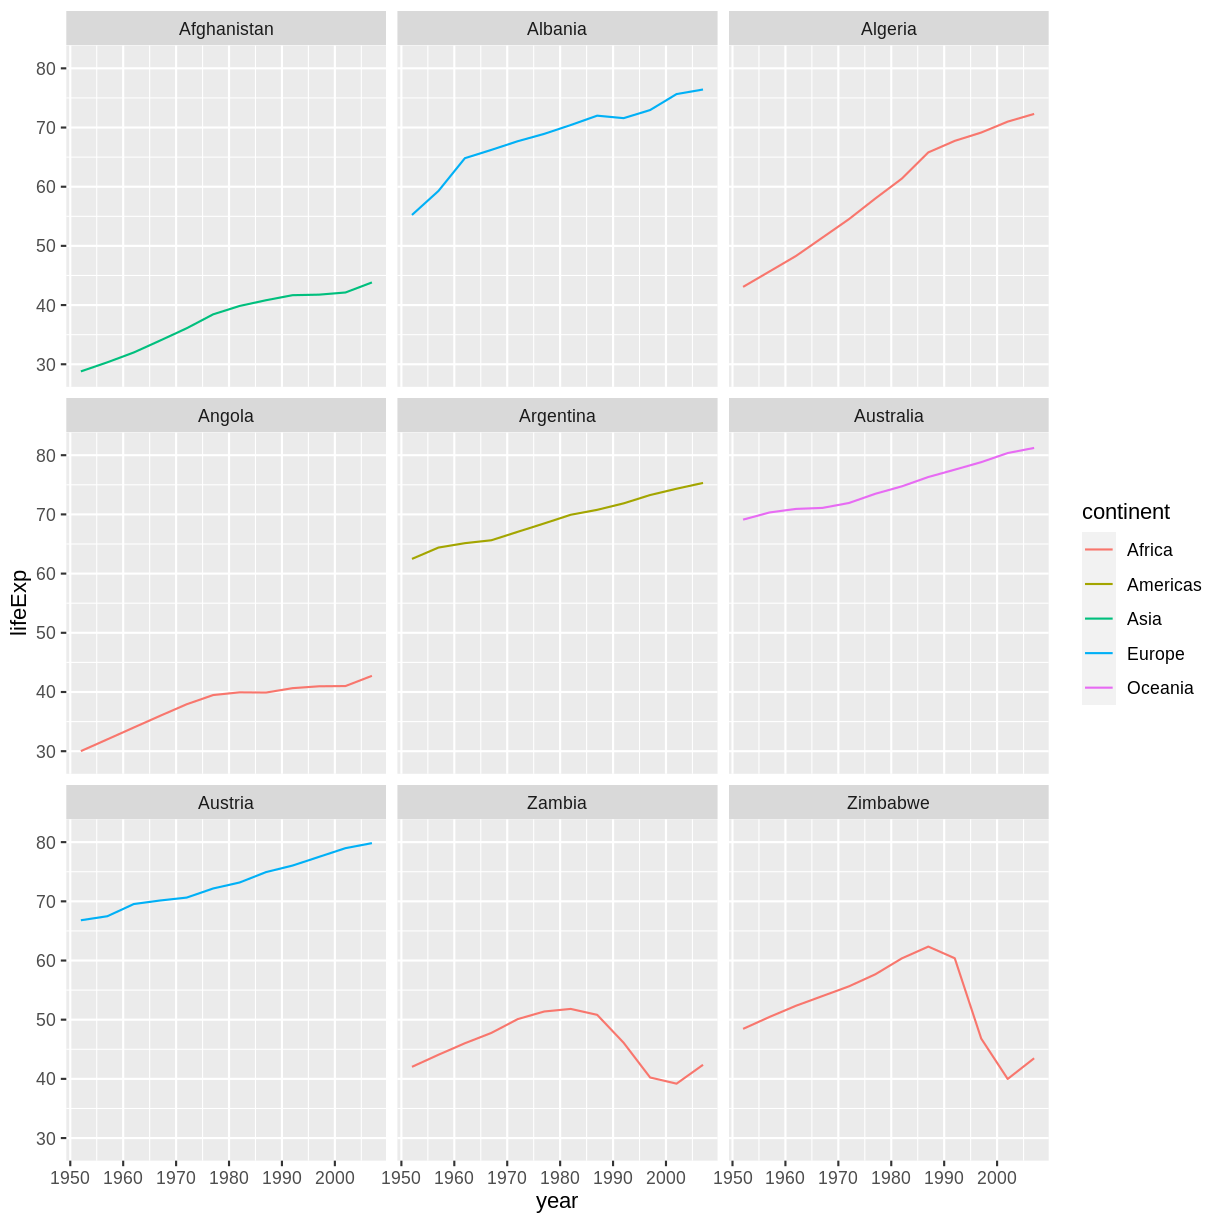
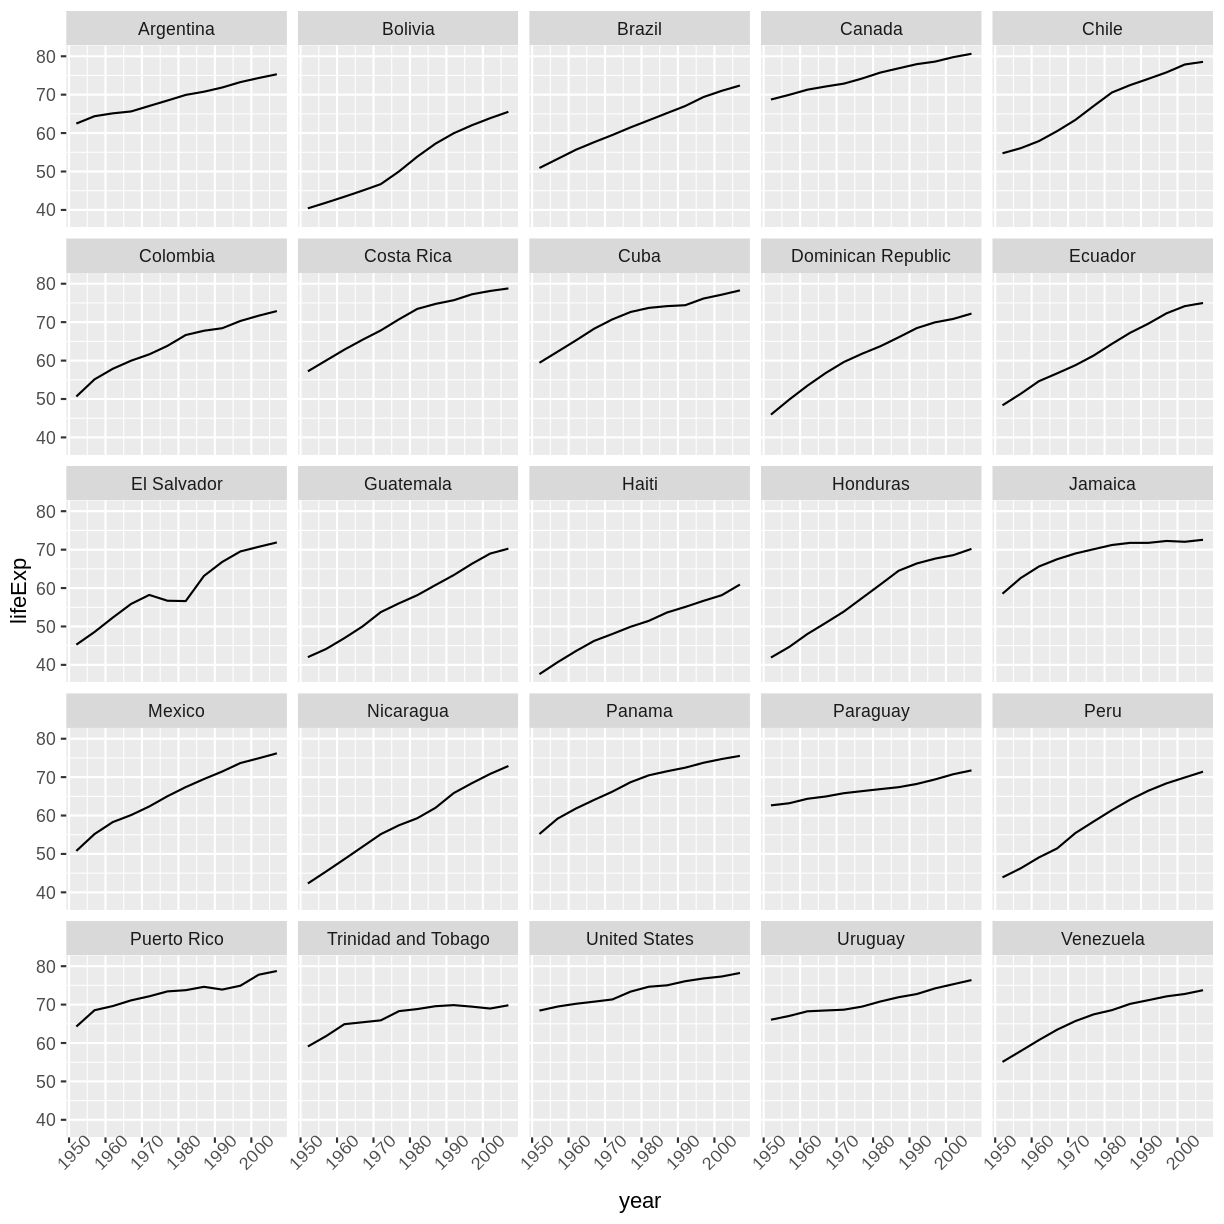
[Github Actions] render website (via b04159c625dd058e4d25c01f429e69825da5c483)

diff --git a/_episodes/13-dplyr.md b/_episodes/13-dplyr.md
@@ -592,20 +592,20 @@ extra comments):
 
 
 ~~~
-# Get the start letter of each country
-starts.with <- substr(gapminder$country, start = 1, stop = 1)
-# Filter countries that start with "A" or "Z"
-az.countries <- gapminder[starts.with %in% c("A", "Z"), ]
+# Filter countries located in the Americas
+americas <- gapminder[gapminder$continent == "Americas", ]
 # Make the plot
-ggplot(data = az.countries, aes(x = year, y = lifeExp, color = continent)) +
-  geom_line() + facet_wrap( ~ country)
+ggplot(data = americas, mapping = aes(x = year, y = lifeExp)) +
+  geom_line() +
+  facet_wrap( ~ country) +
+  theme(axis.text.x = element_text(angle = 45))
 ~~~
 {: .language-r}
 
 <img src="../fig/rmd-13-unnamed-chunk-24-1.png" title="plot of chunk unnamed-chunk-24" alt="plot of chunk unnamed-chunk-24" width="612" style="display: block; margin: auto;" />
 
-This code makes the right plot but it also creates some variables (`starts.with`
-and `az.countries`) that we might not have any other uses for. Just as we used
+This code makes the right plot but it also creates an intermediate variable 
+(`americas`) that we might not have any other uses for. Just as we used
 `%>%` to pipe data along a chain of `dplyr` functions we can use it to pass data
 to `ggplot()`. Because `%>%` replaces the first argument in a function we don't
 need to specify the `data =` argument in the `ggplot()` function. By combining
@@ -615,35 +615,17 @@ new variables or modifying the data.
 
 ~~~
 gapminder %>%
-   # Get the start letter of each country
-   mutate(startsWith = substr(country, start = 1, stop = 1)) %>%
-   # Filter countries that start with "A" or "Z"
-   filter(startsWith %in% c("A", "Z")) %>%
-   # Make the plot
-   ggplot(aes(x = year, y = lifeExp, color = continent)) +
-   geom_line() +
-   facet_wrap( ~ country)
+  # Filter countries located in the Americas
+  filter(continent == "Americas") %>%
+  # Make the plot
+  ggplot(mapping = aes(x = year, y = lifeExp)) +
+  geom_line() +
+  facet_wrap( ~ country) +
+  theme(axis.text.x = element_text(angle = 45))
 ~~~
 {: .language-r}
 
 <img src="../fig/rmd-13-unnamed-chunk-25-1.png" title="plot of chunk unnamed-chunk-25" alt="plot of chunk unnamed-chunk-25" width="612" style="display: block; margin: auto;" />
-
-Using `dplyr` functions also helps us simplify things, for example we could
-combine the first two steps:
-
-
-~~~
-gapminder %>%
-    # Filter countries that start with "A" or "Z"
-	filter(substr(country, start = 1, stop = 1) %in% c("A", "Z")) %>%
-	# Make the plot
-	ggplot(aes(x = year, y = lifeExp, color = continent)) +
-	geom_line() +
-	facet_wrap( ~ country)
-~~~
-{: .language-r}
-
-<img src="../fig/rmd-13-unnamed-chunk-26-1.png" title="plot of chunk unnamed-chunk-26" alt="plot of chunk unnamed-chunk-26" width="612" style="display: block; margin: auto;" />
 
 > ## Advanced Challenge
 >

diff --git a/_episodes/02-project-intro.md b/_episodes/02-project-intro.md
@@ -191,7 +191,7 @@ Now we have a good directory structure we will now place/save the data file in t
 > > 
 > > 
 > > ~~~
-> > -rw-r--r-- 1 runner docker 80K Jun 28 15:12 data/gapminder_data.csv
+> > -rw-r--r-- 1 runner docker 80K Jul  2 22:55 data/gapminder_data.csv
 > > ~~~
 > > {: .output}
 > > The file size is 80K.

diff --git a/_episodes/01-rstudio-intro.md b/_episodes/01-rstudio-intro.md
@@ -708,7 +708,7 @@ function (name, pos = -1L, envir = as.environment(pos), all.names = FALSE,
     }
     else all.names
 }
-<bytecode: 0x559a587bcef0>
+<bytecode: 0x55aa40e28ef0>
 <environment: namespace:base>
 ~~~
 {: .output}
